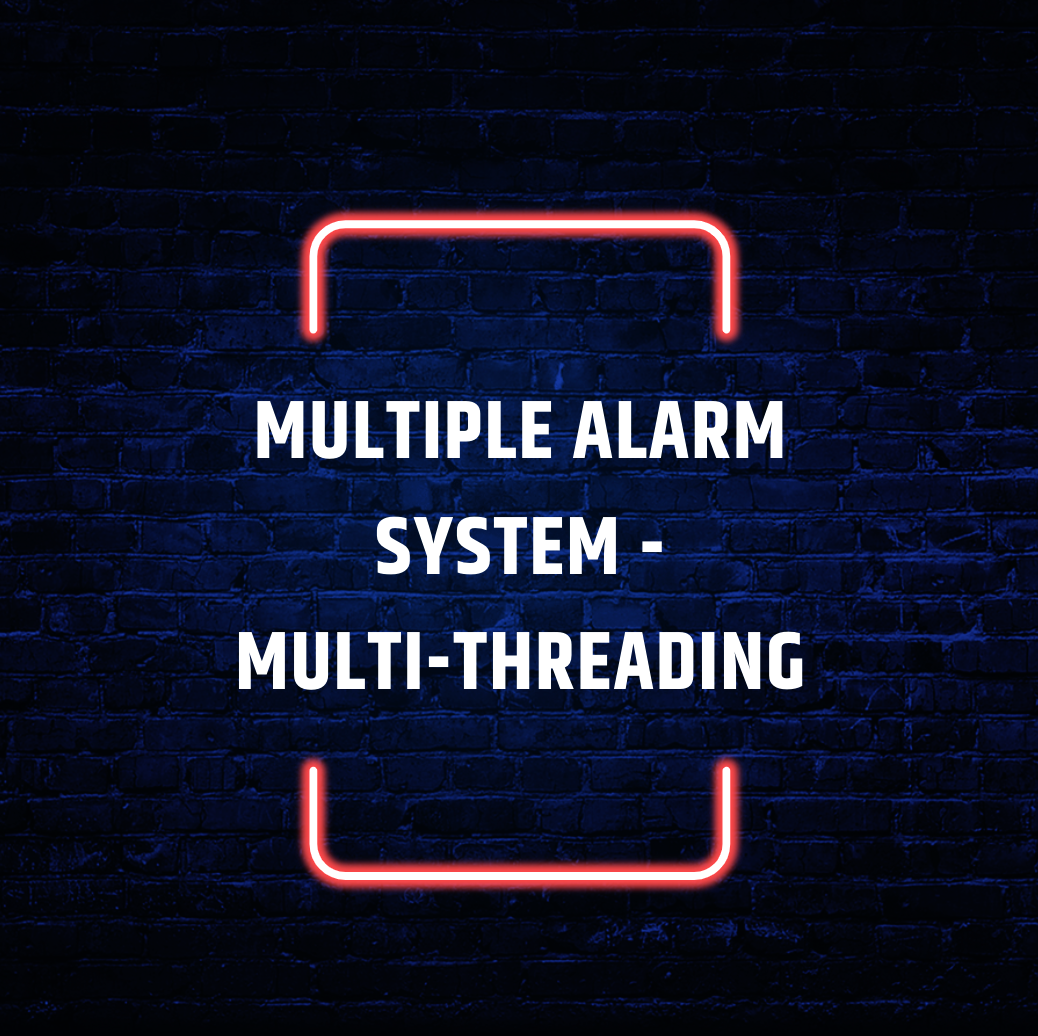
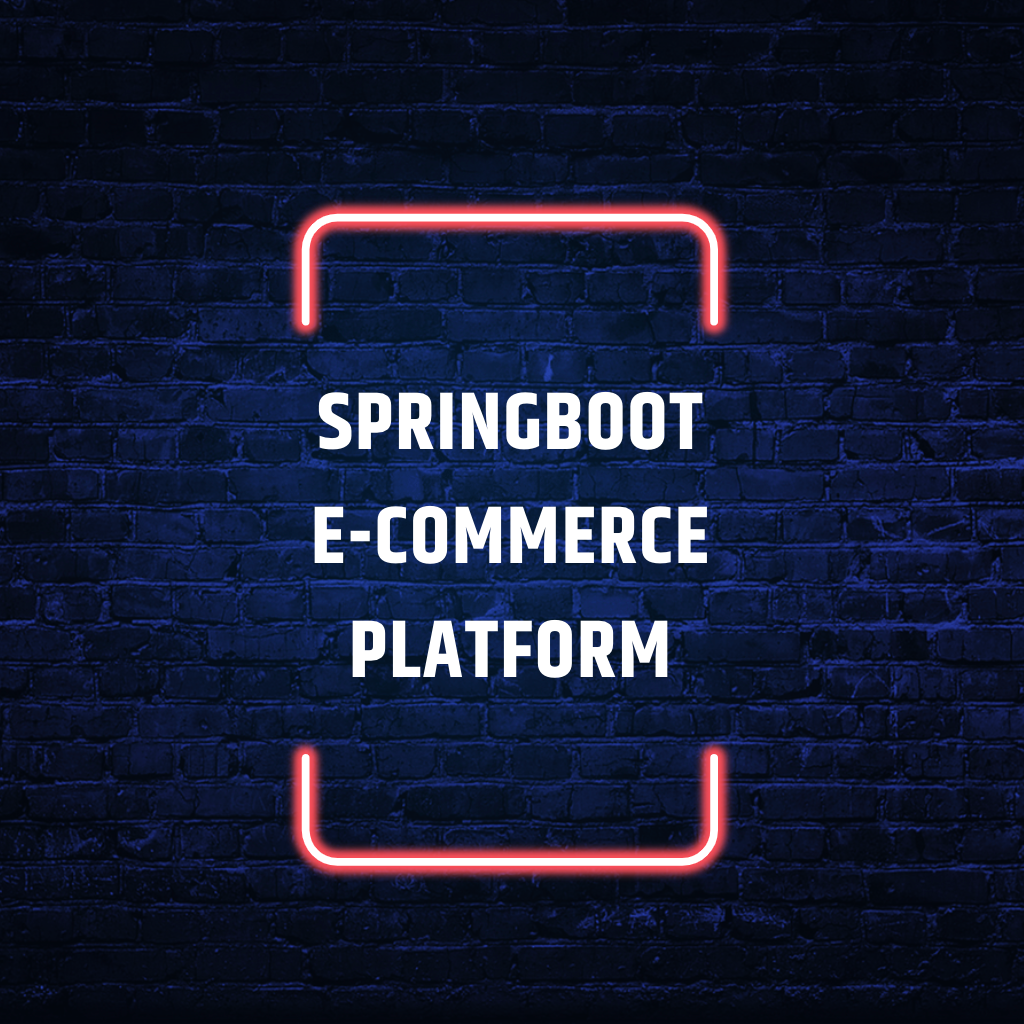
Ecom project update

Changed region(s): [[0.0, 0.0, 1.0, 0.9688], [0.0, 0.0, 0.0625, 0.0312], [0.0312, 0.1875, 0.0625, 0.2188]]

diff --git a/proj3.html b/proj3.html
@@ -1,0 +1,126 @@
+<!DOCTYPE HTML>
+<html>
+	<head>
+		<title>Apple Auction Store</title>
+		<meta charset="utf-8" />
+		<meta name="viewport" content="width=device-width, initial-scale=1, user-scalable=no" />
+		<link rel="stylesheet" href="assets/css/main.css" />
+		<noscript><link rel="stylesheet" href="assets/css/noscript.css" /></noscript>
+	</head>
+	<body class="is-preload">
+		
+		<!-- Header -->
+		<header id="header">
+			<a href="index.html" class="title">Mohammad Huzaifa Shaikh</a>
+			<nav>
+				<ul>
+					<li><a href="index.html">Home</a></li>
+
+				</ul>
+			</nav>
+		</header>
+		
+		<!-- Wrapper -->
+		<div id="wrapper">
+			
+			<!-- Main -->
+			<section id="main" class="wrapper">
+				<div class="inner">
+					<!-- <p style="margin: 0;">Check the project out on my <a target=”_blank”  href="https://github.com/mhuzaifashaikh/InVehicleDatabase">GitHub</a>!</p> -->
+					<!-- <p>For understaning of context, you may have a look at this article on research conducted on In-Vehicle Information Systems <a target=”_blank” href="https://www.frontiersin.org/articles/10.3389/frsc.2020.00039/full">here.</a> </p> -->
+							
+							<h1 class="major">E-Commerce Platform for Apple Products.</h1>
+							<!-- <center>
+								<video width="565" height="500" controls>
+									<source src="images/ivisvid.mp4" type="video/mp4">
+								  Your browser does not support the video tag.
+								  </video>
+
+								  <p>A quick demonstration going over the main functionality of the website.</p>
+								  
+							</center> -->
+							
+							<!-- <p style="color:white;">I was tasked with creating a program for In-Vehicle Information Systems and this program
+								is what I came up with. My program was required to take in user entires, check if it already exists, output an error if it does
+								and ask user to enter again, add to database if it did not already exist and assign a value to each entry, allow the user to to search for an
+								entry, allow the user to delete an entry and so on... Below I go into detail on how I decided to desgin this program.</p>
+
+
+
+						 <p> <br /> </p> -->
+
+						 <p style="color: white; font-size: xx-large; margin:3px; font-weight: bold;"> Uploading today</p>
+
+						 <!-- <p style="color: white;"> In this Project, I chose to implement this algorithm primarily using hashmaps. I chose to use hashmaps as they are the most efficient and easiest way to store and deal 
+							with entries that contain unique keys for each value. Due to the primary system performance criteria being speed, I utilised hash maps for quick search of objects using a key. Hashmaps also was 
+							the best choice as speed was a criteria but the order of the key-value pairs being maintained was not important.
+							<br/>
+							In this Project I have also used an array list as a supplementary data structure that helps in storing the keys. The index at which a specific key is stored is used as the value of that key. In that way
+							no two keys will have the same value either(Since two items cannot be stored at the same index!).
+						</p>
+						
+						<p> <br /></p>
+						<p style="color: white; font-weight: bolder;"> Methods/Functions </p>
+						
+						
+						<p style="color: white; font-size: large; font-style: italic; margin: 3px; font-weight: bold;">Function 1- Insert</p>
+
+						<p style="color: white">The insert function is used to essentially add the key-value pair into the hashmap. This is done by first checking if the key already exists in the hashmap, because if it does we will 
+							have to alert the user and return from the method as each key is supposed to be unique.
+							<br/>However, if the key does not exist, we proceed to add it to the hashmap. This is done by adding the key to the supplementary array list. Once it is added to the array list, the index of the key is used as the
+							value for this key and this pair is added to the hashmap.
+							
+							</p>
+
+							<p> <br /> </p>
+							<p style="color: white; font-size: large; font-style: italic; margin: 3px; font-weight: bold;">Function 2- Delete</p>
+
+
+							<p style="color: white">The delete function is used to essentially delete the key-value pair from the hashmap. This is done by first checking if the exists in the hashmap. That is done by extracting the value of the
+								 key using a hashmap method and checking if the value is null. If it is, then the key does not exist and therefore there is nothing to delete and the user is alerted subsequently.<br/>
+								However, if the key does exist, we proceed to delete it from the hashmap. This process is a little more complicated than inserting. It would be easier to remove an element from the end of an array list rather than 
+								the middle which would need it to then rearrange all the rest of the elements so that no value in between the array list is null. And since the order of the keys is not important, what we did is swap the key to remove
+								 with the last key in the arraylist. We did this buy extracting the index of the last element of the array list (size of arraylist -1) and then checked to see if this index is also the same as the value of the key, because 
+								 if it is that would mean that this key-value pair is the only one in the arraylist(and therefore in the hashmap) and we would not need to do any swapping. However, if it is not, then we extract the current key in the last
+								position of the array list to later assign a new value to it. After we do that, we use a java utility function to swap in the array the key in the last position with the key that we have to delete. And once we do that, we 
+								remove the key that is now in the last position(this is now the key we want to delete).<br/> 
+								Finally, assign the key that was swapped the new value which was previously used byt the key we just removed.
+								</p>
+
+
+								<p> <br /></p>
+								<p style="color: white; font-size: large; font-style: italic; margin: 3px; font-weight: bold;">Function 3- Search</p>
+
+								<p style="color: white">The search function is used to essentially search a key-value pair on the hashmap. This is done by first checking if the exists in the hashmap. That is done by extracting the value of the key using
+									 a hashmap method and checking if the value is null. If it is, then the key does not exist and therefore it is not found and the user is alerted subsequently.<br/>
+									However, if the key does exist, then we print a message to the user that shows the key they searched for and the value of this key. The function then returns this value.
+									</p> -->
+						 
+						</div>
+
+					</section>
+
+			</div>
+
+		
+
+		<!-- Footer -->
+			<footer id="footer" class="wrapper alt">
+				<div class="inner">
+					<ul class="menu">
+						<li>&copy; Mohammad Huzaifa Shaikh. All rights reserved.</li>
+					</ul>
+				</div>
+			</footer>
+
+		<!-- Scripts -->
+			<script src="assets/js/jquery.min.js"></script>
+			<script src="assets/js/jquery.scrollex.min.js"></script>
+			<script src="assets/js/jquery.scrolly.min.js"></script>
+			<script src="assets/js/browser.min.js"></script>
+			<script src="assets/js/breakpoints.min.js"></script>
+			<script src="assets/js/util.js"></script>
+			<script src="assets/js/main.js"></script>
+
+	</body>
+</html>

diff --git a/index.html b/index.html
@@ -65,6 +65,26 @@
 
 				<!-- One -->
 				<section id="one" class="wrapper style2 spotlights">
+
+					<section>
+						<a href="#" class="image"><img src="images/MT.jpg" alt="" data-position="top center" /></a>
+						<div class="content">
+							<div class="inner">
+								<h2>E-Commerce Platform for Apple Products</h2>
+								<p><!--A comprehensive E-Commerce platform I worked on with a group consisting of 2 other people. This platform is an Apple store where all
+									 products are listed as a bid which can either be in the form of forward bidding (the regular kind where the highest bidder wins and gets
+									  to purchase the item) and dutch bidding (where the owner keeps lowering the price till and first person to make an offer gets to buy it).-->
+									    Worked in a team of 3 and developed a comprehensive E-commerce platform (an online store tailored for Apple products).
+										This project leverages Java (Spring Boot) for backend services, REST APIs for seamless communication, SQLite for database management and incorporated a modern UI/UX using HTML/CSS for the frontend.
+										Will Employ Docker to encapsulate the application environment, facilitating hassle-free local hosting on Apache Tomcat for showcasing the projects functionality.
+										I was tasked to create a real-time bidding system, utilizing web sockets and REST APIs to notify bidders dynamically and maintain live bid updates.
+								</p>
+								<ul class="actions">
+									<li><a href="proj3.html" class="button">More on this project</a></li>
+								</ul>
+							</div>
+						</div>
+					</section>
 					
 					<section>
 						<a href="#" class="image"><img src="images/IVIS.jpg" alt="" data-position="top center" /></a>
@@ -92,18 +112,7 @@
 						</div>
 					</section>
 
-					<section>
-						<a href="#" class="image"><img src="images/MT.jpg" alt="" data-position="25% 25%" /></a>
-						<div class="content">
-							<div class="inner">
-								<h2>POSIX Multi-Threaded Program using Semaphores</h2>
-								<p>Uploading soon</p>
-								<ul class="actions">
-									<li><a href="generic.html" class="button">More on this project</a></li>
-								</ul>
-							</div>
-						</div>
-					</section>
+					
 				</section>
 
 
@@ -135,7 +144,7 @@
 					</div>
 				</section>
 				<section>
-					<a href="#" class="image"><img src="images/SP.jpg" alt="" data-position="25% 25%" /></a>
+					<a href="#" class="image"><img src="images/SP.jpg" alt="" data-position="center center" /></a>
 					<div class="content">
 						<div class="inner">
 							<h2>SOLID Principles - Writing Clean Code</h2>
